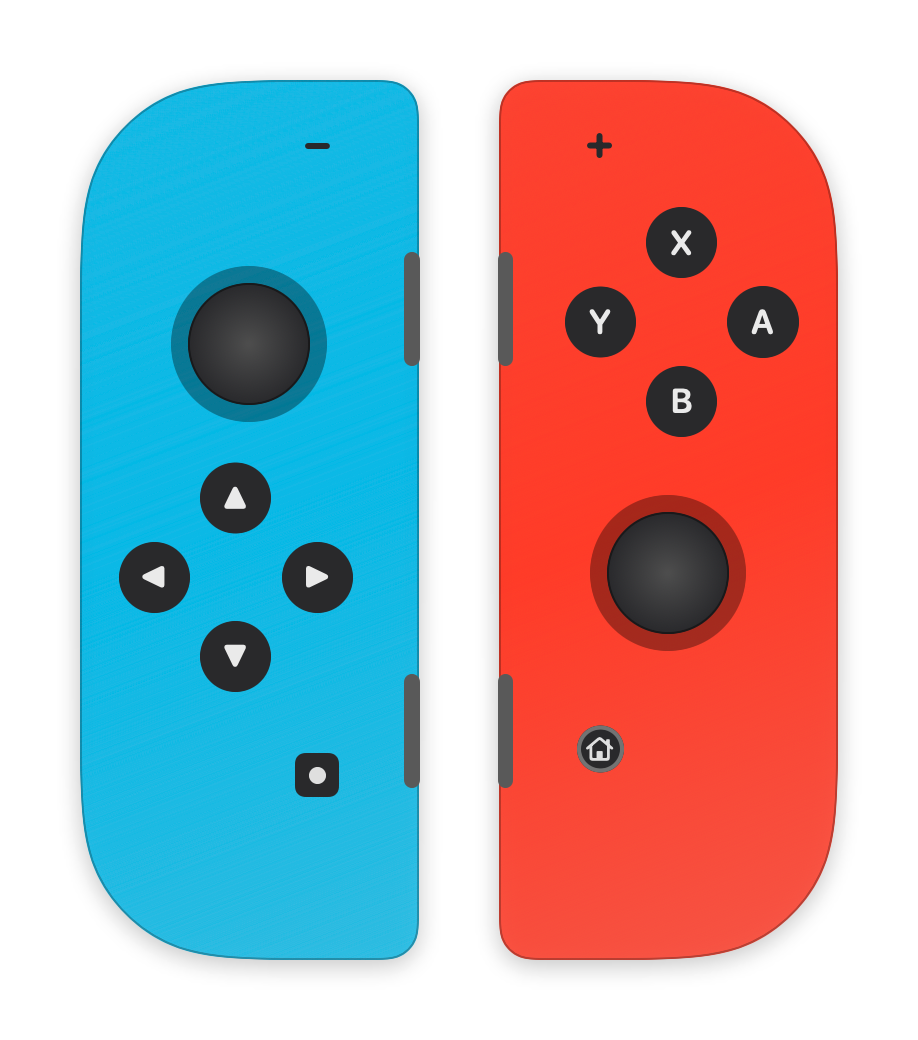
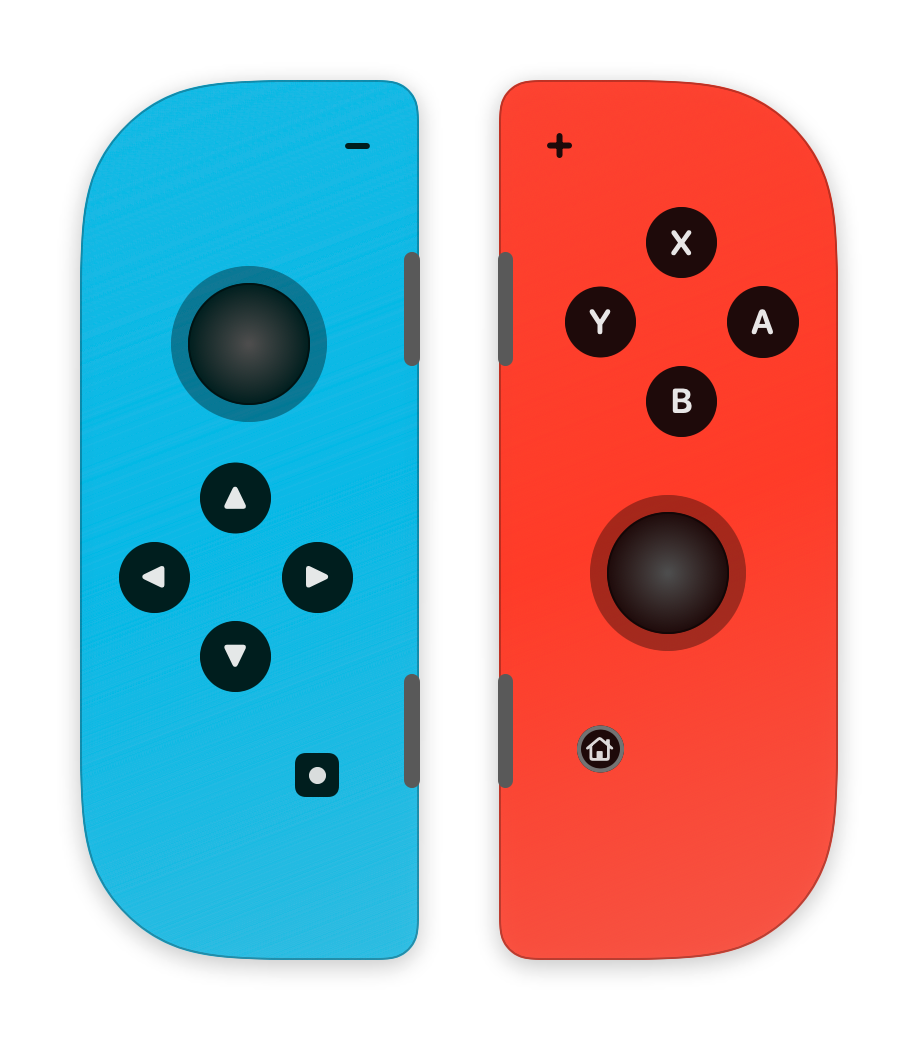
research-driven fixes: phantom-fn recorder bug, hardware colors, recorder UX
- RECORDER BUG: arrows/F-keys/nav keys inherently carry the SecondaryFn
  event flag; recording one persisted a phantom .fn modifier that re-armed
  the system-wide Fn latch on synthesis. Strip it for those key codes.
- Bare Delete now clears a binding; bare Escape still cancels; Escape
  preset added to the row menu (it can't be recorded)
- Activate app before arming the recorder (LSUIElement focus edge case)
- Buttons tinted per hardware SPI palette (#001E1E on blue, #1E0A0A on red);
  +/− moved to the rail side per measured geometry
- Log AXIsProcessTrusted result on every launch (denied grant is otherwise
  indistinguishable from a working one under KeepAlive)
- Drop maintainer's personal LaunchAgent plist from the repo

diff --git a/Sources/JoyConKeys/UI/JoyConView.swift b/Sources/JoyConKeys/UI/JoyConView.swift
@@ -11,12 +11,16 @@ struct JoyConView: View {
     @ObservedObject var recorder: ComboRecorder
     @Binding var highlighted: PadButton?
 
-    // Community-documented Joy-Con shell colors.
+    // Hardware colors from the Joy-Con SPI flash palette (switchbrew):
+    // shells #0AB9E6 / #FF3C28; buttons are TINTED near-black per side
+    // (#001E1E on neon blue, #1E0A0A on neon red), not neutral gray.
     static let neonRed = Color(red: 1.0, green: 0.235, blue: 0.157)      // #FF3C28
     static let neonBlue = Color(red: 0.039, green: 0.725, blue: 0.902)   // #0AB9E6
-    static let buttonGray = Color(red: 0.16, green: 0.16, blue: 0.17)
+    static let buttonOnBlue = Color(red: 0.0, green: 0.118, blue: 0.118) // #001E1E
+    static let buttonOnRed = Color(red: 0.118, green: 0.039, blue: 0.039) // #1E0A0A
 
     private var shellColor: Color { side == .left ? Self.neonBlue : Self.neonRed }
+    private var buttonColor: Color { side == .left ? Self.buttonOnBlue : Self.buttonOnRed }
 
     var body: some View {
         GeometryReader { geo in
@@ -82,7 +86,7 @@ struct JoyConView: View {
 
     private func faceR(w: CGFloat, h: CGFloat) -> some View {
         ZStack {
-            plusMinus(.menu, isPlus: true, at: CGPoint(x: w * 0.30, y: h * 0.075), w: w)
+            plusMinus(.menu, isPlus: true, at: CGPoint(x: w * 0.18, y: h * 0.075), w: w)
             // ABXY diamond: X top, A right, B bottom, Y left.
             face(.buttonX, "X", at: CGPoint(x: w * 0.54, y: h * 0.185), w: w)
             face(.buttonA, "A", at: CGPoint(x: w * 0.78, y: h * 0.275), w: w)
@@ -95,7 +99,7 @@ struct JoyConView: View {
 
     private func faceL(w: CGFloat, h: CGFloat) -> some View {
         ZStack {
-            plusMinus(.menu, isPlus: false, at: CGPoint(x: w * 0.70, y: h * 0.075), w: w)
+            plusMinus(.menu, isPlus: false, at: CGPoint(x: w * 0.82, y: h * 0.075), w: w)
             stick(at: CGPoint(x: w * 0.50, y: h * 0.30), w: w)
             // Direction buttons (reported as A/B/X/Y in the sideways frame).
             face(.buttonX, "▲", at: CGPoint(x: w * 0.46, y: h * 0.475), w: w)
@@ -109,7 +113,7 @@ struct JoyConView: View {
     private func face(_ id: PadButton, _ label: String, at p: CGPoint, w: CGFloat) -> some View {
         ZStack {
             Circle()
-                .fill(pressedFill(id, base: Self.buttonGray))
+                .fill(pressedFill(id, base: buttonColor))
                 .frame(width: w * 0.21, height: w * 0.21)
             Text(label)
                 .font(.system(size: w * 0.10, weight: .semibold, design: .rounded))
@@ -137,7 +141,7 @@ struct JoyConView: View {
             Circle()  // cap
                 .fill(
                     RadialGradient(
-                        colors: [Color(white: 0.30), Self.buttonGray],
+                        colors: [Color(white: 0.30), buttonColor],
                         center: .center, startRadius: 1, endRadius: w * 0.18))
                 .overlay(Circle().strokeBorder(active != nil ? Color.white.opacity(0.9) : .black.opacity(0.4), lineWidth: active != nil ? 2 : 1))
                 .frame(width: w * 0.36, height: w * 0.36)
@@ -150,7 +154,7 @@ struct JoyConView: View {
     private func homeButton(at p: CGPoint, w: CGFloat) -> some View {
         ZStack {
             Circle()
-                .fill(pressedFill(.home, base: Self.buttonGray))
+                .fill(pressedFill(.home, base: buttonColor))
                 .overlay(Circle().strokeBorder(Color(white: 0.45), lineWidth: w * 0.012))
                 .frame(width: w * 0.14, height: w * 0.14)
             Image(systemName: "house")
@@ -165,7 +169,7 @@ struct JoyConView: View {
     private func captureButton(at p: CGPoint, w: CGFloat) -> some View {
         ZStack {
             RoundedRectangle(cornerRadius: w * 0.03)
-                .fill(pressedFill(.capture, base: Self.buttonGray))
+                .fill(pressedFill(.capture, base: buttonColor))
                 .frame(width: w * 0.13, height: w * 0.13)
             Circle()
                 .fill(.white.opacity(0.85))
@@ -179,7 +183,7 @@ struct JoyConView: View {
     private func plusMinus(_ id: PadButton, isPlus: Bool, at p: CGPoint, w: CGFloat) -> some View {
         Image(systemName: isPlus ? "plus" : "minus")
             .font(.system(size: w * 0.085, weight: .black))
-            .foregroundStyle(pressedFill(id, base: Self.buttonGray))
+            .foregroundStyle(pressedFill(id, base: buttonColor))
             .position(p)
             .contentShape(Circle().scale(2))
             .onTapGesture { arm(id) }
@@ -197,7 +201,7 @@ struct JoyConView: View {
     private func arm(_ id: PadButton) {
         highlighted = id
         recorder.begin(for: id) { combo in
-            store.set(.combo(combo), for: id)
+            store.set(combo.map { .combo($0) } ?? .unassigned, for: id)
         }
     }
 }

diff --git a/Sources/JoyConKeys/UI/ComboRecorder.swift b/Sources/JoyConKeys/UI/ComboRecorder.swift
@@ -12,26 +12,47 @@ final class ComboRecorder: ObservableObject {
 
     private var monitor: Any?
 
-    func begin(for button: PadButton, onCapture: @escaping (KeyCombo) -> Void) {
+    /// Key codes that inherently carry kCGEventFlagMaskSecondaryFn in their
+    /// events (arrows, F-keys, nav cluster, forward-delete) — recording one
+    /// must NOT persist a phantom .fn modifier, or synthesis would run the
+    /// explicit Fn sequence for a combo that never needed it.
+    private static let inherentFnKeys: Set<UInt16> = [
+        96, 97, 98, 99, 100, 101, 103, 105, 107, 109, 111, 113,  // F-keys
+        114, 115, 116, 117, 118, 119, 120, 121, 122,             // nav + F1-F4
+        123, 124, 125, 126,                                      // arrows
+    ]
+
+    /// onCapture receives the recorded combo, or nil when the user pressed
+    /// bare Delete — the "clear this binding" convention.
+    func begin(for button: PadButton, onCapture: @escaping (KeyCombo?) -> Void) {
         cancel()
         recordingButton = button
         heldModifiers = []
+        // A menu-bar (LSUIElement) app may not own key focus; without it the
+        // local monitor never fires and the recorder looks dead.
+        NSApp.activate(ignoringOtherApps: true)
         monitor = NSEvent.addLocalMonitorForEvents(matching: [.keyDown, .flagsChanged]) { [weak self] event in
             guard let self else { return event }
+            // NSEvent.ModifierFlags and CGEventFlags agree in the
+            // 1<<16 … 1<<23 range — a coincidence we rely on here.
+            var mods = Modifiers(eventFlags: CGEventFlags(rawValue: UInt64(event.modifierFlags.rawValue)))
             switch event.type {
             case .flagsChanged:
-                self.heldModifiers = Modifiers(eventFlags: CGEventFlags(rawValue: UInt64(event.modifierFlags.rawValue)))
+                self.heldModifiers = mods
                 return nil
             case .keyDown:
-                if event.keyCode == 53 && self.heldModifiers.isEmpty {  // bare Escape cancels
+                if event.keyCode == 53 && mods.isEmpty {  // bare Escape cancels
                     self.cancel()
                     return nil
                 }
-                let combo = KeyCombo(
-                    keyCode: event.keyCode,
-                    modifiers: Modifiers(eventFlags: CGEventFlags(rawValue: UInt64(event.modifierFlags.rawValue))))
+                if event.keyCode == 51 && mods.isEmpty {  // bare Delete clears
+                    self.cancel()
+                    onCapture(nil)
+                    return nil
+                }
+                if Self.inherentFnKeys.contains(event.keyCode) { mods.remove(.fn) }
                 self.cancel()
-                onCapture(combo)
+                onCapture(KeyCombo(keyCode: event.keyCode, modifiers: mods))
                 return nil
             default:
                 return event

diff --git a/Sources/JoyConKeys/JoyConKeysApp.swift b/Sources/JoyConKeys/JoyConKeysApp.swift
@@ -13,12 +13,12 @@ struct JoyConKeysApp: App {
         _store = StateObject(wrappedValue: store)
         _engine = StateObject(wrappedValue: ControllerEngine(store: store))
 
-        // Prompt once if key synthesis would be silently dropped.
+        // Prompt once if key synthesis would be silently dropped. Log the
+        // result either way: with KeepAlive a denied grant otherwise looks
+        // identical to a working one (macOS drops synthetic events silently).
         let trusted = AXIsProcessTrustedWithOptions(
             [kAXTrustedCheckOptionPrompt.takeUnretainedValue() as String: true] as CFDictionary)
-        if !trusted {
-            NSLog("[joycon-keys] no Accessibility permission yet — grant it in System Settings")
-        }
+        NSLog("[joycon-keys] accessibility trusted: %@", trusted ? "yes" : "NO — grant it in System Settings › Privacy & Security › Accessibility")
     }
 
     var body: some Scene {

diff --git a/Sources/JoyConKeys/UI/MappingList.swift b/Sources/JoyConKeys/UI/MappingList.swift
@@ -54,7 +54,7 @@ struct MappingRow: View {
                     recorder.cancel()
                 } else {
                     recorder.begin(for: button) { combo in
-                        store.set(.combo(combo), for: button)
+                        store.set(combo.map { .combo($0) } ?? .unassigned, for: button)
                     }
                 }
             } label: {
@@ -78,6 +78,10 @@ struct MappingRow: View {
             Menu {
                 Button("macOS Dictation (double-Control)") {
                     store.set(.doubleControl, for: button)
+                }
+                // Bare Escape can't be recorded (it cancels recording).
+                Button("Escape") {
+                    store.set(.combo(KeyCombo(keyCode: 53, modifiers: [])), for: button)
                 }
                 Button("Unassigned") {
                     store.set(.unassigned, for: button)

diff --git a/Sources/JoyConKeys/Model/KeyCombo.swift b/Sources/JoyConKeys/Model/KeyCombo.swift
@@ -54,7 +54,10 @@ struct KeyCombo: Codable, Hashable {
         modifiers.symbols + (KeyCombo.keyNames[keyCode] ?? "vk\(keyCode)")
     }
 
-    /// Carbon virtual key code → display name (ANSI layout).
+    /// Carbon virtual key code → display name. Hardcoded ANSI-layout table:
+    /// on AZERTY/Dvorak the label AND the synthesized character both follow
+    /// the active layout, not this table. Storing key codes is still right;
+    /// just know that layout switches change what a combo produces.
     static let keyNames: [UInt16: String] = [
         0: "A", 1: "S", 2: "D", 3: "F", 4: "H", 5: "G", 6: "Z", 7: "X",
         8: "C", 9: "V", 11: "B", 12: "Q", 13: "W", 14: "E", 15: "R",
